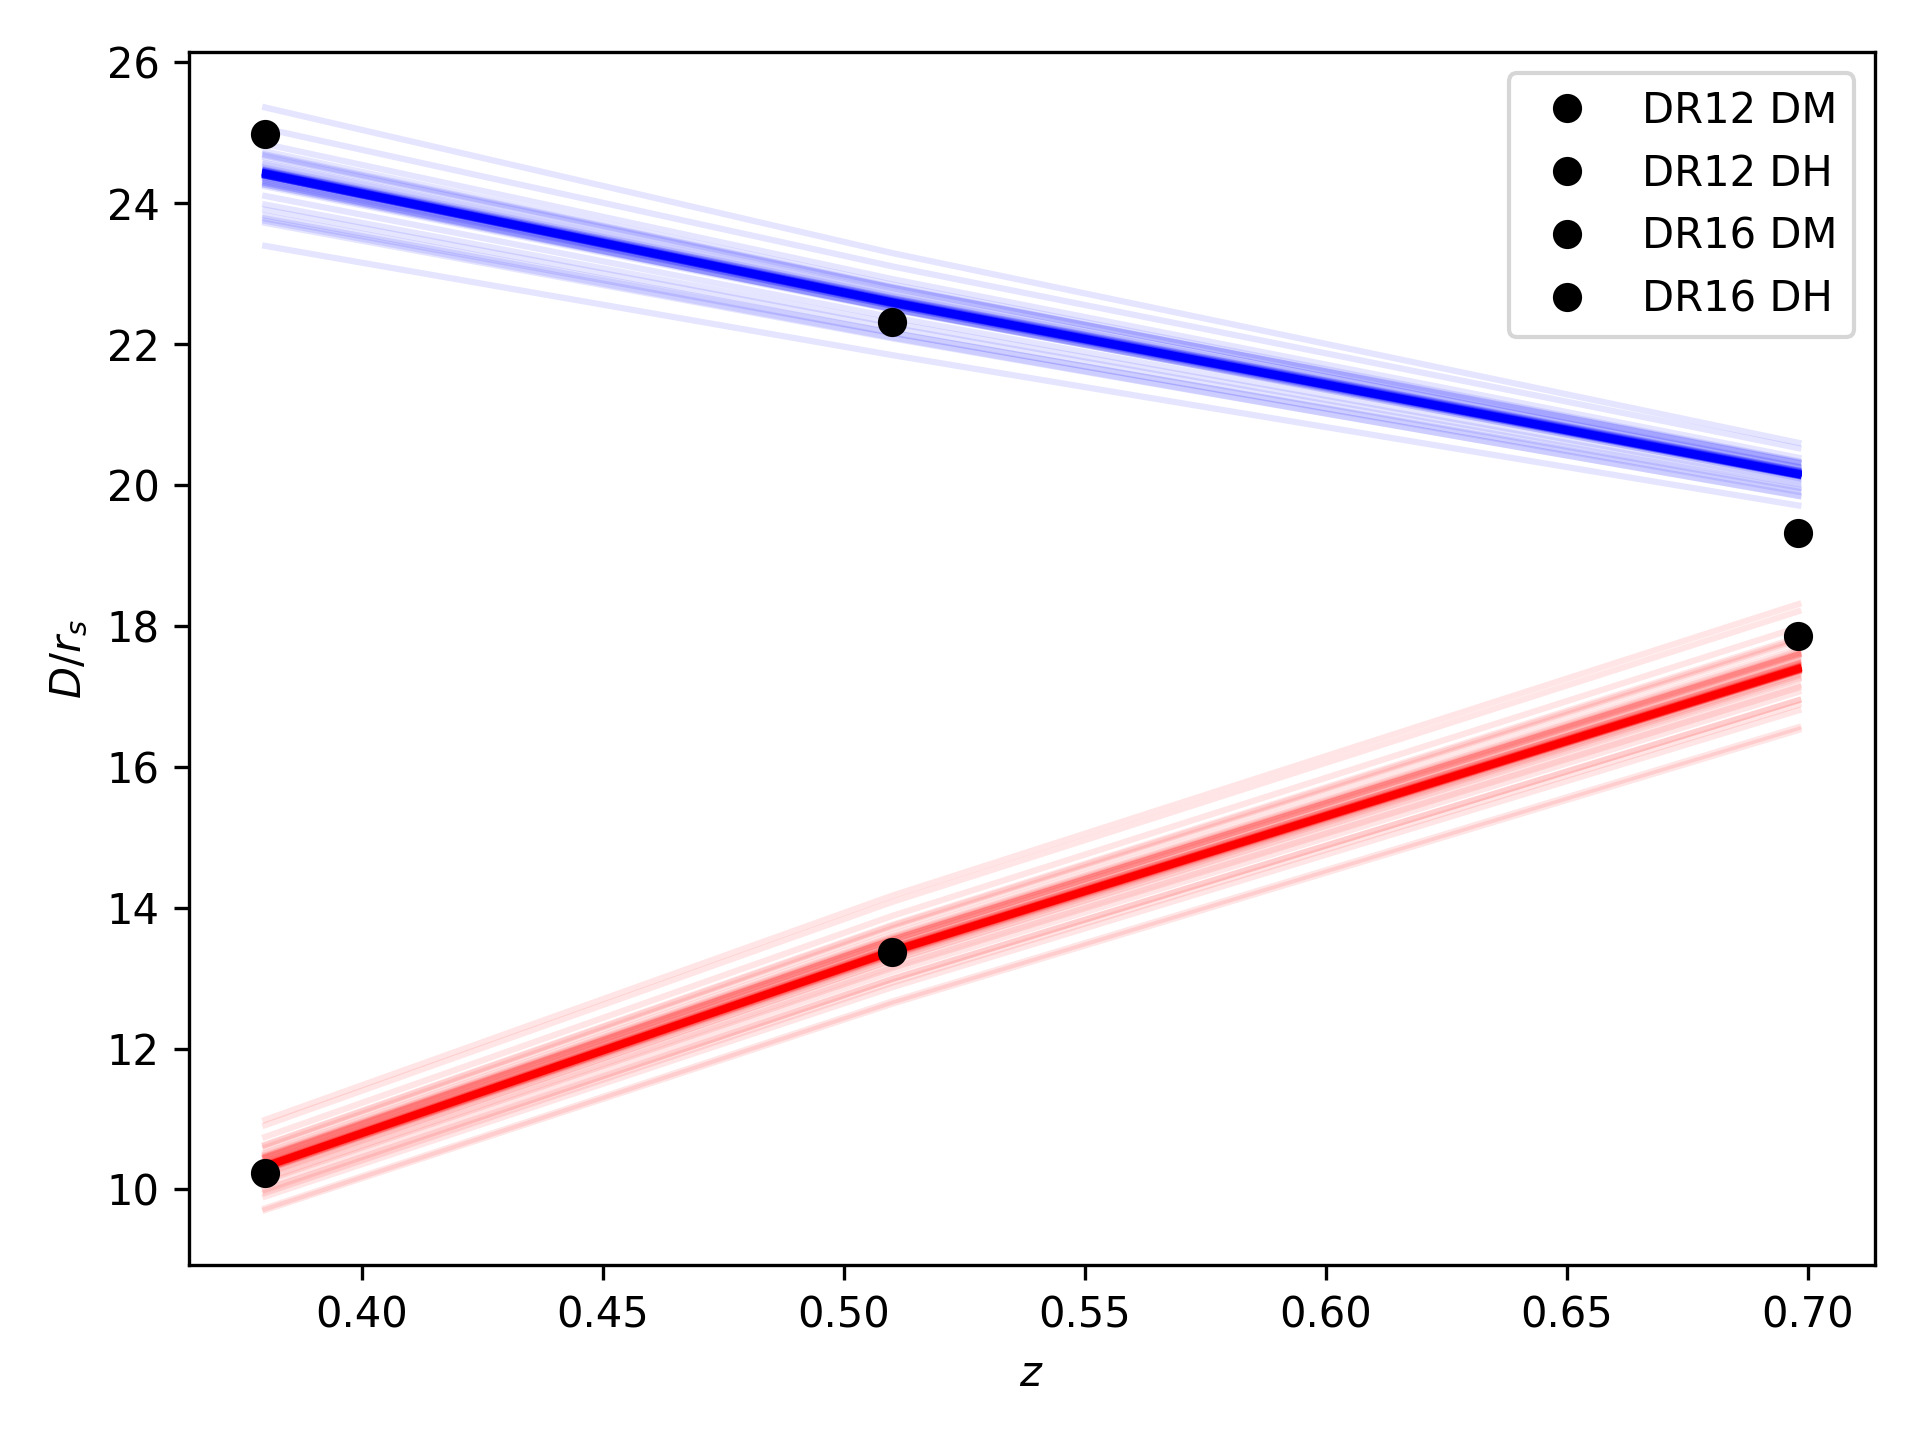
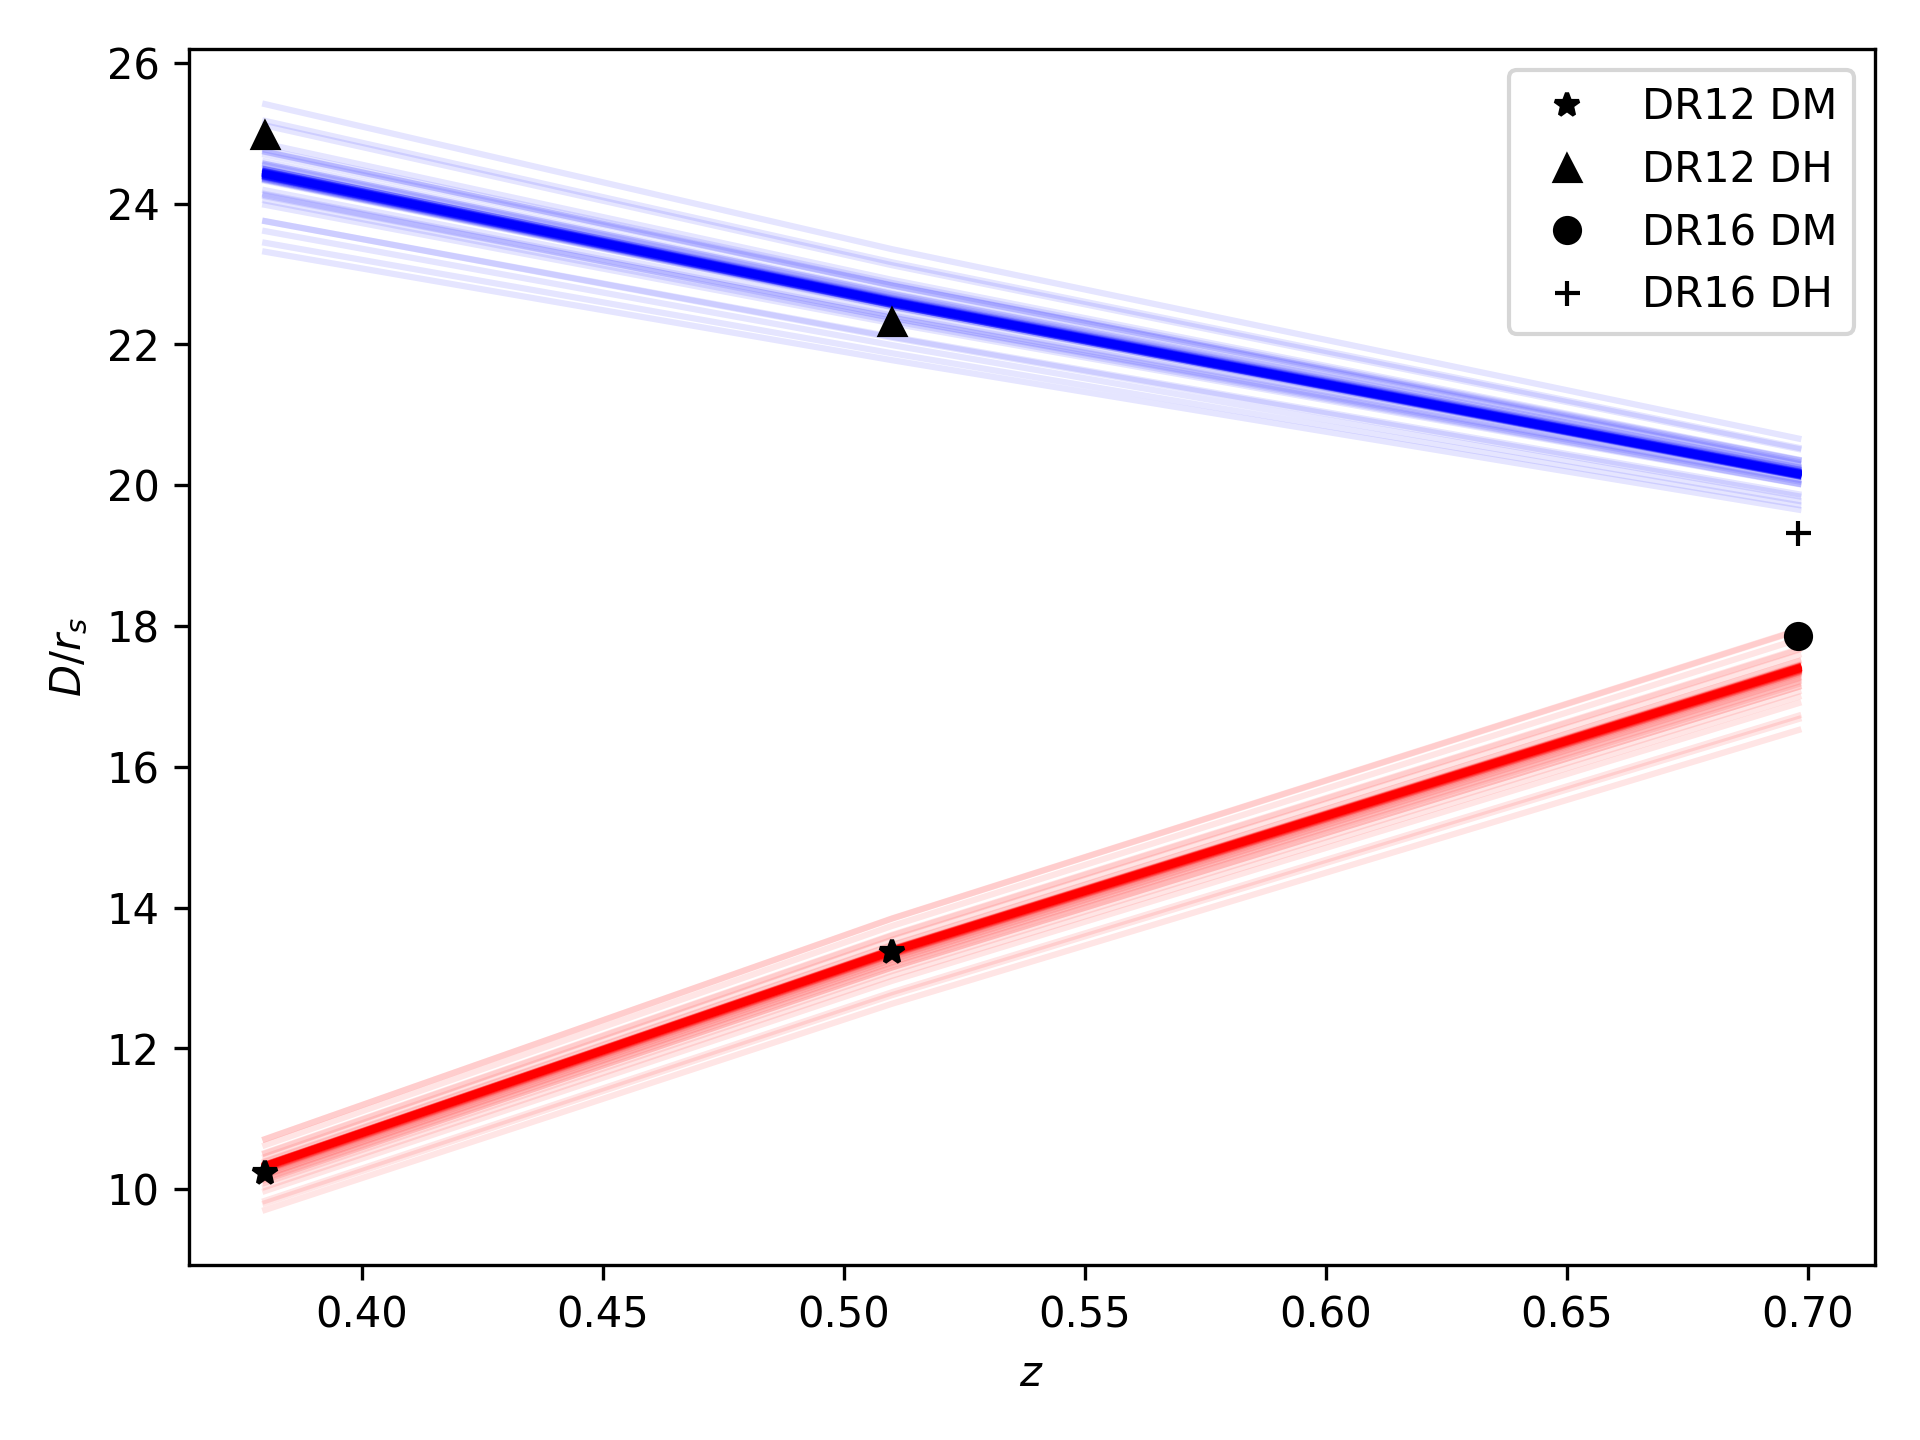
better legend/markers

Changed region(s): [[0.0625, 0.0312, 0.9688, 0.375], [0.125, 0.4062, 0.9375, 0.8438], [0.0312, 0.4375, 0.0625, 0.4688]]

diff --git a/bao_analysis.py b/bao_analysis.py
@@ -58,10 +58,10 @@ print(samples)
 #cbar = plot_contours(bao, z, samples, axes)
 plot_lines(bao_da, z, samples, axes, color='r')
 plot_lines(bao_dh, z, samples, axes, color='b')
-plt.plot(d12[::2,0], d12[::2,1], 'o', label='DR12 DM', c='k')
-plt.plot(d12[1::2,0], d12[1::2,1], 'o', label='DR12 DH', c='k')
+plt.plot(d12[::2,0], d12[::2,1], '*', label='DR12 DM', c='k')
+plt.plot(d12[1::2,0], d12[1::2,1], '^', label='DR12 DH', c='k')
 plt.plot(d16[::2,0], d16[::2,1], 'o', label='DR16 DM', c='k')
-plt.plot(d16[1::2,0], d16[1::2,1], 'o', label='DR16 DH', c='k')
+plt.plot(d16[1::2,0], d16[1::2,1], '+', label='DR16 DH', c='k')
 plt.xlabel(r'$z$')
 plt.ylabel(r'$D/r_s$')
 plt.legend()
